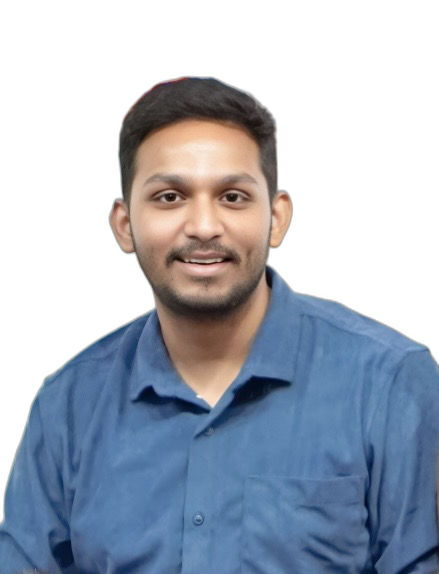
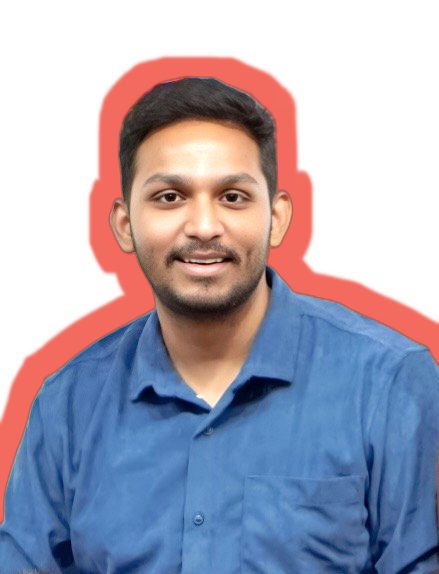
Coral outline, enhanced photo, site-wide dev-card redesigns
Photo (fixes 'dull' look):
- Regenerate outline in coral #f26b5e (matches UI) instead of white
- Bump contrast +12%, saturation +15%, sharpness +10% via PIL
- Add paper-colored card backdrop with dotted grain texture + pulsing
  coral/teal radial glow BEHIND the silhouette (now pops off the page)
- Add 4 IDE-style corner crosshairs (blinking coral)
- Replace "← this guy" with tagged "that's me →" chip in ink/paper
- Terminal caption chip below with green pulse + online status

Experience cards → macOS window / code-file aesthetic:
- Added window chrome header (red/yellow/green dots + filename.ts
  + current/archived status badge)
- Company name rendered as TypeScript: const company = "Inspire Brands"
- Points list with line numbers 01/02/03 + coral ▸ bullets, inside a
  code-block-style container with coral left border
- "stack:" label + tech tags inline (feels like package.json deps)

Skills section → full terminal window:
- Entire section now a single bordered terminal with chrome dots
- Each category shown as a shell command: $ ls --skill backend_api
- Skills appear as command output under a colored left border
- Final blinking prompt at the bottom

Net effect: ~70% of the page now reads as developer/IDE language
(window chromes, filenames, terminal commands, line numbers, code
syntax) instead of generic editorial cards.

diff --git a/src/app/page.tsx b/src/app/page.tsx
@@ -306,33 +306,63 @@ export default function Portfolio() {
             animate={{ opacity: 1, x: 0 }}
             transition={{ duration: 0.7, delay: 0.3 }}
           >
-            {/* Photo — clean Canva-style white outline silhouette */}
+            {/* Photo — coral-outlined silhouette with dev-card backdrop */}
             <div className="relative">
-              <div className="relative aspect-square w-full">
-                {/* Soft radial glow behind for warmth */}
+              <div
+                className="relative aspect-square w-full border-2 border-ink shadow-brutal-lg overflow-hidden"
+                style={{ backgroundColor: '#f5ead4' }}
+              >
+                {/* Dotted paper texture */}
                 <div
-                  className="absolute inset-0 pulse-glow pointer-events-none rounded-full"
+                  className="absolute inset-0 pointer-events-none"
                   style={{
-                    background:
-                      'radial-gradient(circle at 50% 45%, rgba(242,107,94,0.35), rgba(15,118,110,0.2) 45%, transparent 70%)',
+                    backgroundImage: 'radial-gradient(circle at 1px 1px, rgba(26,31,61,0.15) 1px, transparent 0)',
+                    backgroundSize: '12px 12px',
                   }}
                 ></div>
-                {/* Silhouette with baked-in white outline */}
+                {/* Pulsing coral radial glow */}
+                <div
+                  className="absolute inset-0 pulse-glow pointer-events-none"
+                  style={{
+                    background:
+                      'radial-gradient(circle at 50% 50%, rgba(242,107,94,0.40), rgba(15,118,110,0.18) 50%, transparent 75%)',
+                  }}
+                ></div>
+                {/* Silhouette with baked coral outline */}
                 <Image
                   src="/charan-profile-outlined.png"
                   alt="Charan Tej Mandali"
                   fill
                   sizes="(max-width: 768px) 100vw, 33vw"
-                  className="object-contain object-bottom relative z-10 drop-shadow-[6px_6px_0_rgba(26,31,61,0.25)]"
+                  className="object-contain object-bottom relative z-10"
                   priority
                 />
-                {/* Animated accent arrow pointing to him — Canva vibe */}
-                <div className="absolute -left-2 top-[20%] z-20 font-mono text-xs hidden md:flex items-center gap-1 rotate-[-8deg]" style={{ color: '#f26b5e' }}>
-                  <span>← this guy</span>
+                {/* Corner crosshairs */}
+                {[
+                  { c: 'top-2 left-2', d: 'M1 5V1H5' },
+                  { c: 'top-2 right-2', d: 'M13 5V1H9' },
+                  { c: 'bottom-2 left-2', d: 'M1 9V13H5' },
+                  { c: 'bottom-2 right-2', d: 'M13 9V13H9' },
+                ].map((pos, i) => (
+                  <svg
+                    key={i}
+                    className={`absolute ${pos.c} z-20 corner-blink`}
+                    width="14"
+                    height="14"
+                    viewBox="0 0 14 14"
+                    fill="none"
+                    style={{ color: '#f26b5e' }}
+                  >
+                    <path d={pos.d} stroke="currentColor" strokeWidth="1.5" />
+                  </svg>
+                ))}
+                {/* "← this guy" label */}
+                <div className="absolute right-3 top-[18%] z-20 font-mono text-xs flex items-center gap-1 rotate-[8deg] bg-ink text-paper px-2 py-0.5 border border-ink">
+                  <span>that&apos;s me →</span>
                 </div>
               </div>
-              {/* Caption tag */}
-              <div className="inline-flex items-center gap-2 mt-2 bg-ink text-paper font-mono text-xs px-3 py-1.5 border-2 border-ink shadow-brutal-sm">
+              {/* Terminal caption chip below photo */}
+              <div className="inline-flex items-center gap-2 mt-3 bg-ink text-paper font-mono text-xs px-3 py-1.5 border-2 border-ink shadow-brutal-sm">
                 <span className="w-1.5 h-1.5 rounded-full animate-pulse" style={{ backgroundColor: '#22c55e' }}></span>
                 <span>{'charan@hyderabad:~$'}</span>
                 <span style={{ color: '#f59e42' }}>online</span>
@@ -418,52 +448,79 @@ export default function Portfolio() {
         </h2>
 
         <div className="space-y-8">
-          {experience.map((job, idx) => (
-            <motion.div
-              key={idx}
-              initial={{ opacity: 0, y: 40 }}
-              whileInView={{ opacity: 1, y: 0 }}
-              viewport={{ once: true, margin: '-100px' }}
-              transition={{ duration: 0.5 }}
-              className="bg-paper border-2 border-ink shadow-brutal-lg p-6 md:p-8"
-              style={{ backgroundColor: idx === 0 ? '#f59e42' : '#f5ead4' }}
-            >
-              <div className="flex flex-col md:flex-row md:justify-between md:items-start gap-4 mb-6">
-                <div>
-                  <div className="font-mono text-xs uppercase tracking-widest mb-2 opacity-70">
-                    #{String(idx + 1).padStart(2, '0')} · {job.location}
+          {experience.map((job, idx) => {
+            const companySlug = job.company.toLowerCase().replace(/\s+/g, '-').replace(/[^a-z-]/g, '')
+            return (
+              <motion.div
+                key={idx}
+                initial={{ opacity: 0, y: 40 }}
+                whileInView={{ opacity: 1, y: 0 }}
+                viewport={{ once: true, margin: '-100px' }}
+                transition={{ duration: 0.5 }}
+                className="border-2 border-ink shadow-brutal-lg overflow-hidden"
+                style={{ backgroundColor: idx === 0 ? '#f59e42' : '#f5ead4' }}
+              >
+                {/* macOS-style window header */}
+                <div className="flex items-center justify-between px-4 py-2 border-b-2 border-ink bg-ink text-paper">
+                  <div className="flex items-center gap-2">
+                    <span className="flex gap-1.5">
+                      <span className="w-2.5 h-2.5 rounded-full bg-red-500"></span>
+                      <span className="w-2.5 h-2.5 rounded-full bg-yellow-500"></span>
+                      <span className="w-2.5 h-2.5 rounded-full bg-green-500"></span>
+                    </span>
+                    <span className="font-mono text-xs opacity-70 ml-2">
+                      {companySlug}.ts — {job.location}
+                    </span>
                   </div>
-                  <h3 className="text-2xl md:text-3xl font-bold mb-1" style={{ fontFamily: 'Georgia, serif' }}>
-                    {job.title}
-                  </h3>
-                  <div className="text-lg font-mono">@ {job.company}</div>
+                  <span className="font-mono text-xs" style={{ color: '#f59e42' }}>● {idx === 0 ? 'current' : 'archived'}</span>
                 </div>
-                <div className="font-mono text-sm bg-ink text-paper px-3 py-1 self-start whitespace-nowrap">
-                  {job.period}
+
+                <div className="p-5 md:p-7">
+                  <div className="flex flex-col md:flex-row md:justify-between md:items-start gap-3 mb-5">
+                    <div>
+                      <h3 className="text-2xl md:text-3xl font-bold mb-1" style={{ fontFamily: 'Georgia, serif' }}>
+                        {job.title}
+                      </h3>
+                      <div className="text-lg font-mono">
+                        <span style={{ color: '#0f766e' }}>const</span>{' '}
+                        <span className="font-bold">company</span>{' '}
+                        <span className="opacity-50">=</span>{' '}
+                        <span style={{ color: '#f26b5e' }}>&quot;{job.company}&quot;</span>
+                      </div>
+                    </div>
+                    <div className="font-mono text-sm bg-ink text-paper px-3 py-1 self-start whitespace-nowrap">
+                      {job.period}
+                    </div>
+                  </div>
+
+                  {/* Code-block style points with line numbers */}
+                  <div className="bg-ink/5 border-l-4 rounded-sm mb-4" style={{ borderLeftColor: '#f26b5e' }}>
+                    <ul className="divide-y divide-ink/10">
+                      {job.points.map((point, i) => (
+                        <li key={i} className="flex gap-3 px-3 py-2 font-mono text-sm md:text-[0.92rem]">
+                          <span className="opacity-40 select-none text-right w-6 flex-shrink-0">{String(i + 1).padStart(2, '0')}</span>
+                          <span className="opacity-50" style={{ color: '#0f766e' }}>▸</span>
+                          <span className="leading-relaxed" style={{ fontFamily: 'var(--font-geist-sans)' }}>{point}</span>
+                        </li>
+                      ))}
+                    </ul>
+                  </div>
+
+                  <div className="flex flex-wrap gap-2 items-center">
+                    <span className="font-mono text-xs opacity-50">stack:</span>
+                    {job.tags.map((tag, i) => (
+                      <span
+                        key={i}
+                        className="text-xs font-mono border border-ink px-2 py-0.5 bg-paper"
+                      >
+                        {tag}
+                      </span>
+                    ))}
+                  </div>
                 </div>
-              </div>
-
-              <ul className="space-y-2 mb-5">
-                {job.points.map((point, i) => (
-                  <li key={i} className="flex gap-3">
-                    <span className="font-mono opacity-50 mt-1">→</span>
-                    <span className="leading-relaxed">{point}</span>
-                  </li>
-                ))}
-              </ul>
-
-              <div className="flex flex-wrap gap-2">
-                {job.tags.map((tag, i) => (
-                  <span
-                    key={i}
-                    className="text-xs font-mono uppercase tracking-wider border border-ink px-2 py-1 bg-paper"
-                  >
-                    {tag}
-                  </span>
-                ))}
-              </div>
-            </motion.div>
-          ))}
+              </motion.div>
+            )
+          })}
         </div>
       </section>
 
@@ -592,32 +649,70 @@ export default function Portfolio() {
             What I <span className="italic" style={{ color: '#f59e42' }}>reach for</span>.
           </h2>
 
-          <div className="grid md:grid-cols-2 gap-6">
-            {skillCategories.map((cat, idx) => (
-              <motion.div
-                key={idx}
-                initial={{ opacity: 0, y: 20 }}
-                whileInView={{ opacity: 1, y: 0 }}
-                viewport={{ once: true }}
-                transition={{ duration: 0.5, delay: idx * 0.1 }}
-                className="border-2 border-paper p-6"
-              >
-                <h3 className="text-2xl font-bold mb-4" style={{ fontFamily: 'Georgia, serif', color: '#f59e42' }}>
-                  {cat.name}
-                </h3>
-                <div className="flex flex-wrap gap-2">
-                  {cat.items.map((item, i) => (
-                    <span
-                      key={i}
-                      className="text-sm font-mono border border-paper/50 px-3 py-1 hover:bg-paper hover:text-ink transition-colors cursor-default"
-                    >
-                      {item}
-                    </span>
-                  ))}
-                </div>
-              </motion.div>
-            ))}
-          </div>
+          {/* Terminal window — full skills output */}
+          <motion.div
+            initial={{ opacity: 0, y: 30 }}
+            whileInView={{ opacity: 1, y: 0 }}
+            viewport={{ once: true }}
+            transition={{ duration: 0.5 }}
+            className="border-2 border-paper overflow-hidden font-mono text-sm"
+          >
+            {/* Terminal chrome */}
+            <div className="flex items-center justify-between px-4 py-2 border-b-2 border-paper/40 bg-paper/10">
+              <div className="flex items-center gap-2">
+                <span className="flex gap-1.5">
+                  <span className="w-2.5 h-2.5 rounded-full bg-red-500"></span>
+                  <span className="w-2.5 h-2.5 rounded-full bg-yellow-500"></span>
+                  <span className="w-2.5 h-2.5 rounded-full bg-green-500"></span>
+                </span>
+                <span className="text-xs opacity-60 ml-2">zsh · ~/charan/.skills</span>
+              </div>
+              <span className="text-xs" style={{ color: '#22c55e' }}>● connected</span>
+            </div>
+
+            {/* Terminal body */}
+            <div className="p-5 md:p-6 space-y-5">
+              {skillCategories.map((cat, idx) => {
+                const catSlug = cat.name.toLowerCase().replace(/[^a-z]/g, '_')
+                return (
+                  <motion.div
+                    key={idx}
+                    initial={{ opacity: 0, x: -20 }}
+                    whileInView={{ opacity: 1, x: 0 }}
+                    viewport={{ once: true }}
+                    transition={{ duration: 0.4, delay: idx * 0.08 }}
+                  >
+                    <div className="mb-2">
+                      <span style={{ color: '#22c55e' }}>charan@hyderabad</span>
+                      <span className="opacity-50">:</span>
+                      <span style={{ color: '#f26b5e' }}>~</span>
+                      <span className="opacity-50">$ </span>
+                      <span>ls --skill <span style={{ color: '#f59e42' }}>{catSlug}</span></span>
+                    </div>
+                    <div className="pl-4 border-l-2 flex flex-wrap gap-1.5" style={{ borderColor: '#f59e42' }}>
+                      {cat.items.map((item, i) => (
+                        <span
+                          key={i}
+                          className="text-xs md:text-sm px-2 py-0.5 border border-paper/30 hover:bg-paper hover:text-ink transition-colors cursor-default"
+                        >
+                          {item}
+                        </span>
+                      ))}
+                    </div>
+                  </motion.div>
+                )
+              })}
+
+              {/* Prompt with blinking cursor at bottom */}
+              <div>
+                <span style={{ color: '#22c55e' }}>charan@hyderabad</span>
+                <span className="opacity-50">:</span>
+                <span style={{ color: '#f26b5e' }}>~</span>
+                <span className="opacity-50">$ </span>
+                <span className="animate-pulse">▊</span>
+              </div>
+            </div>
+          </motion.div>
         </div>
       </section>
 
